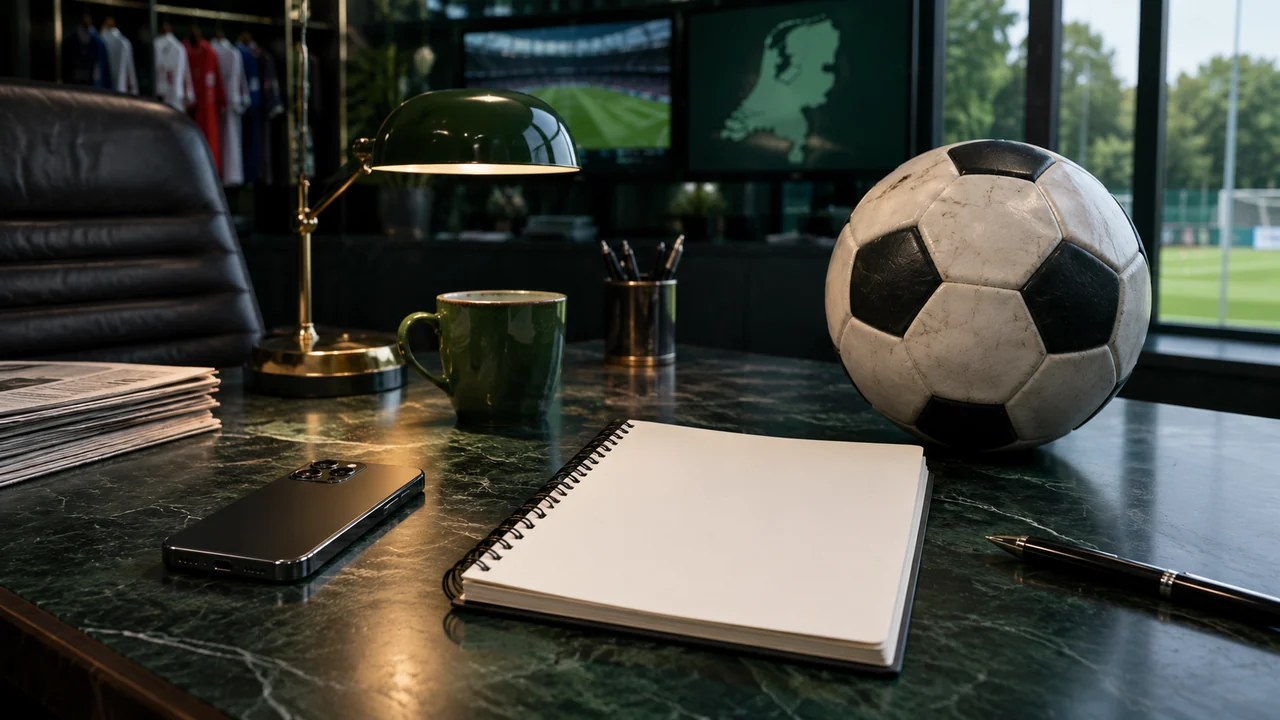
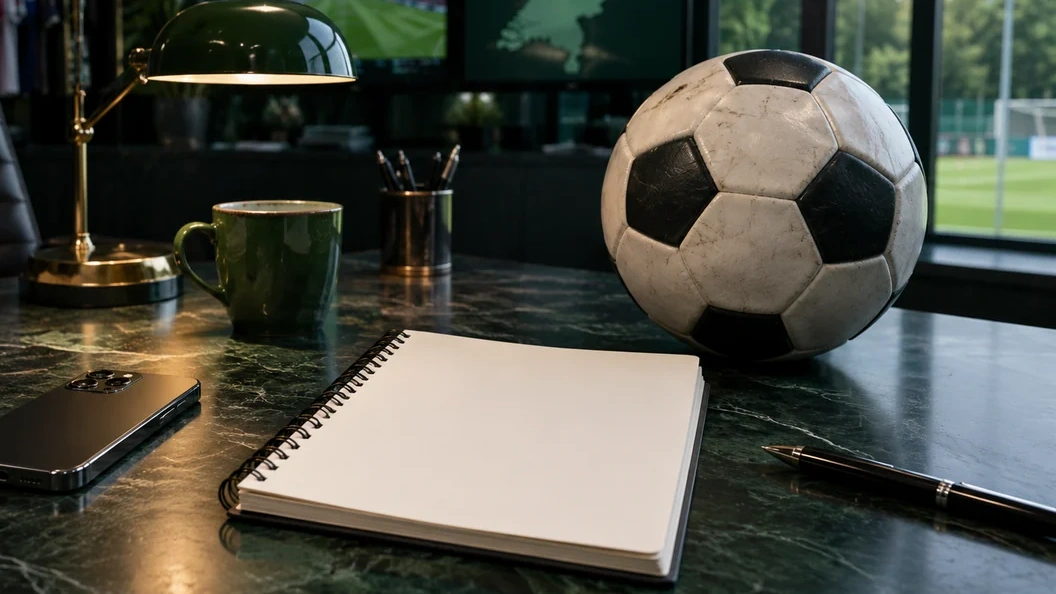
115D: install two visually checked corrected editorial WebPs; 31/122 manual approvals

diff --git a/scripts/prepare-targeted-crops115d.js b/scripts/prepare-targeted-crops115d.js
@@ -9,6 +9,11 @@ const catalog=require('../image-library49.json').assets;
  const rows=[];
  for(const p of plan){
   const a=catalog.find(x=>x.id===p.id);
+  if(a?.correction115?.status==='pixels-corrected-approved'&&a.correction115.originalSha256===p.originalSha256){
+   const existing=JSON.parse(fs.readFileSync(out+'/manifest.json','utf8')).assets.find(x=>x.id===p.id);
+   if(!existing||existing.originalSha256!==p.originalSha256||existing.sha256!==a.sha256||sha(fs.readFileSync(existing.file))!==a.sha256||sha(fs.readFileSync(a.file))!==a.sha256)throw Error('Installed crop hash mismatch '+p.id);
+   rows.push(existing);continue;
+  }
   if(!a||a.file!==p.file||a.sha256!==p.originalSha256||a.brandingAudit115?.status!=='needs-correction')throw Error('Unexpected source binding '+p.id);
   const bytes=fs.readFileSync(p.file);
   if(sha(bytes)!==p.originalSha256)throw Error('Source hash mismatch '+p.id);
